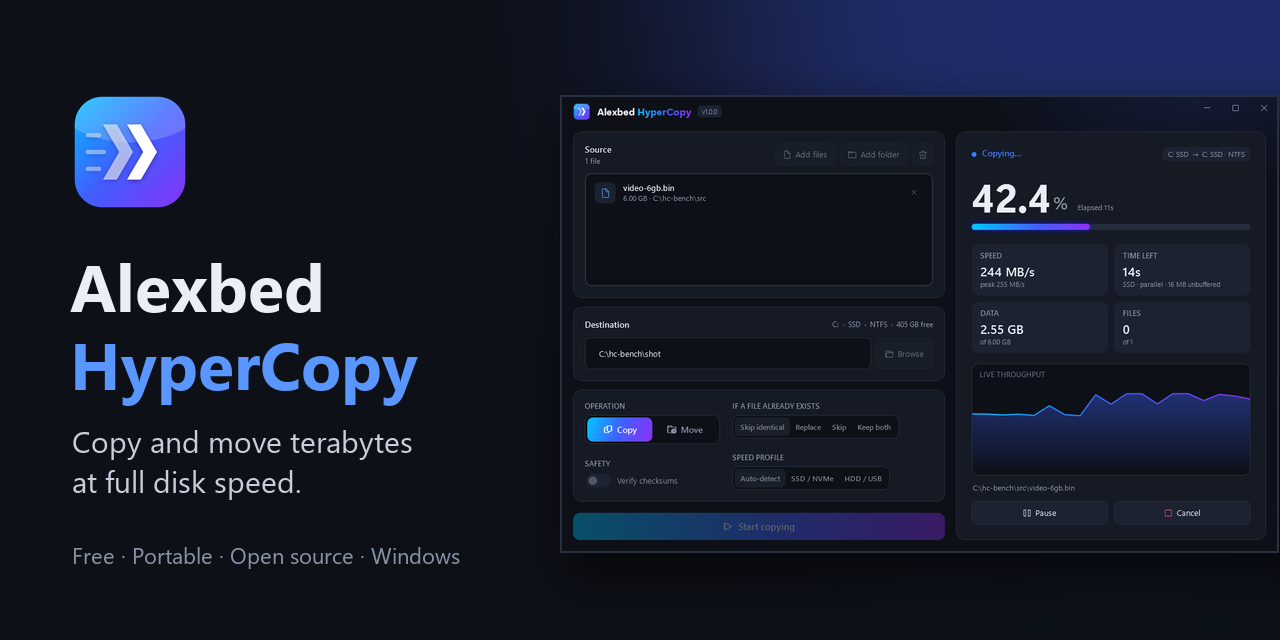
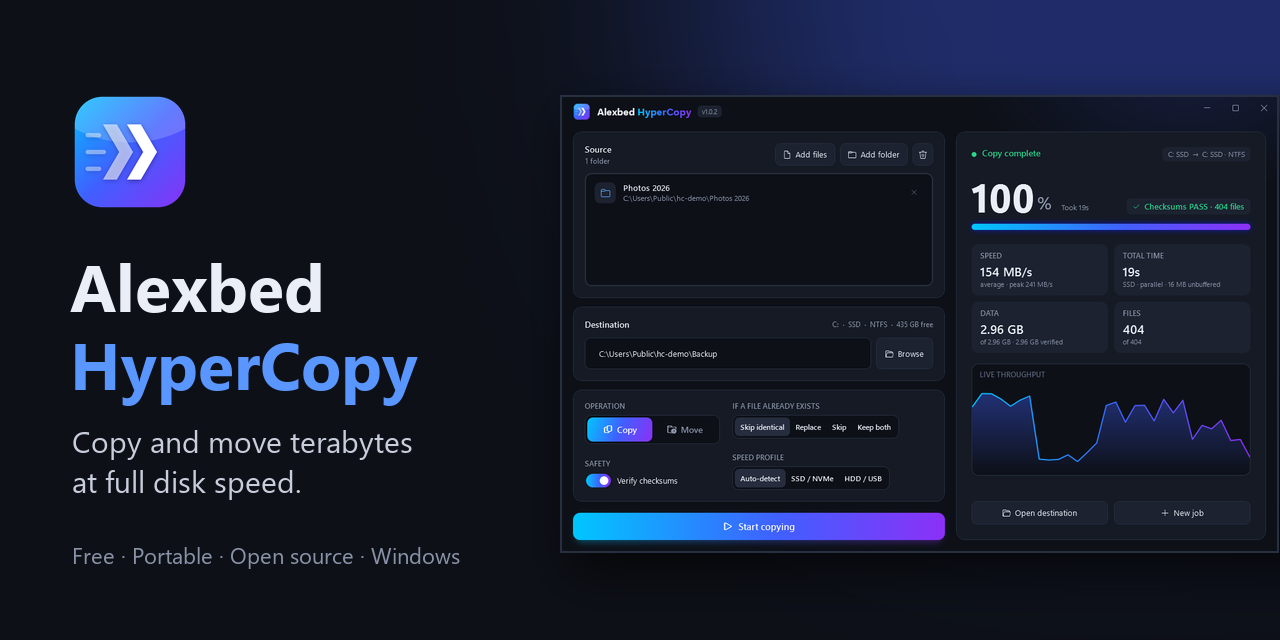
Refresh complete screenshot and social preview for 1.0.2
The card now shows v1.0.2 finishing a verified copy with the
Checksums PASS badge.

diff --git a/.claude/skills/hypercopy-release/SKILL.md b/.claude/skills/hypercopy-release/SKILL.md
@@ -31,7 +31,8 @@ Smoke test the real exe from a separate folder (portable check): copy it to `%TE
 ## 3. Screenshots (if the UI changed)
 Use the snapshot hook (details in the `hypercopy-benchmark` skill) to regenerate `docs/screenshots/{welcome,setup,copying,complete}.png`,
 then the social card:
-`python -I tools/make_social_preview.py assets/logo.png docs/screenshots/copying.png docs/social-preview.png`.
+`python -I tools/make_social_preview.py assets/logo.png docs/screenshots/complete.png docs/social-preview.png`
+(since 1.0.2 the card uses the verified "complete" shot with the Checksums PASS badge).
 Look at every image. Upload a new social card in repo Settings → Social preview (Chrome; there's no API).
 
 ## 4. Publish
